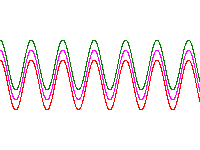
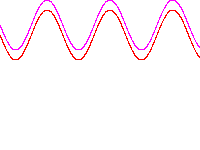
test: update test (#1)
* test: update test

* doc: update readme

Changed region(s): [[0.0, 0.0, 1.0, 0.7467]]

diff --git a/example/wave.js b/example/wave.js
@@ -1,6 +1,7 @@
 'use strict';
 
 const fs = require('fs');
+const path = require('path');
 const PNGlib = require('..');
 
 let png = new PNGlib(200, 150);
@@ -8,12 +9,12 @@ let png = new PNGlib(200, 150);
 for (let i = 0, num = 200 / 10; i <= num; i += .01) {
 
   let x = i * 10;
-  let y = Math.sin(i) * Math.sin(i) * 50 + 50;
+  // Math.sin(i) range [-1, 1] ====> 0 <= y <= 50
+  let y = Math.sin(i) * 25 + 25;
 
   // use a color triad of Microsofts million dollar color
-  png.setPixel(x, (y - 10), 'green');
   png.setPixel(x, (y), '#FF00FF');
   png.setPixel(x, (y + 10), 'rgb(255,0,0)');
 }
 
-fs.writeFileSync('./wave.png', png.getBuffer());
+fs.writeFileSync(path.resolve(__dirname, './wave.png'), png.getBuffer());

diff --git a/example/out_range.js b/example/out_range.js
@@ -1,6 +1,7 @@
 'use strict';
 
 const fs = require('fs');
+const path = require('path');
 const PNGlib = require('..');
 
 let png = new PNGlib(200, 150);
@@ -8,6 +9,7 @@ let png = new PNGlib(200, 150);
 for (let i = 0, num = 200 / 10; i <= num; i += .01) {
 
   let x = i * 10;
+  // Math.sin(i) range [-1, 1] ====> 0 <= y <= 100
   let y = Math.sin(i) * 50 + 50;
 
   png.setPixel(x, (y - 20), 'blue');
@@ -15,4 +17,4 @@ for (let i = 0, num = 200 / 10; i <= num; i += .01) {
   png.setPixel(x, (y + 80), 'rgba(0,255,0)');
 }
 
-fs.writeFileSync('./out_range.png', png.getBuffer());
+fs.writeFileSync(path.resolve(__dirname, './out_range.png'), png.getBuffer());

diff --git a/test/test.js b/test/test.js
@@ -51,10 +51,10 @@ describe('PNGlib', () => {
       for (let i = 0, num = 200 / 10; i <= num; i += .01) {
 
         let x = i * 10;
-        let y = Math.sin(i) * Math.sin(i) * 50 + 50;
+        // Math.sin(i) range [-1, 1] ====> 0 <= y <= 50
+        let y = Math.sin(i) * 25 + 25;
 
         // use a color triad of Microsofts million dollar color
-        png.setPixel(x, (y - 10), 'green');
         png.setPixel(x, (y), '#FF00FF');
         png.setPixel(x, (y + 10), 'rgb(255,0,0)');
       }

diff --git a/example/line.js b/example/line.js
@@ -1,6 +1,7 @@
 'use strict';
 
 const fs = require('fs');
+const path = require('path');
 const PNGlib = require('..');
 
 // width 150, height 50
@@ -13,4 +14,4 @@ for (let i = 0; i < 75; i++) {
   png.buffer[lineIndex + i] = png.color('blue'); // paint (red, green, blue, alpha)
 }
 
-fs.writeFileSync('line.png', png.getBuffer());
+fs.writeFileSync(path.resolve(__dirname, './line.png'), png.getBuffer());

diff --git a/example/block.js b/example/block.js
@@ -1,6 +1,7 @@
 'use strict';
 
 const fs = require('fs');
+const path = require('path');
 const PNGlib = require('..');
 
 let png = new PNGlib(200, 200);
@@ -13,4 +14,4 @@ for (let i = 30; i < 120; i++) {
   }
 }
 
-fs.writeFileSync('./block.png', png.getBuffer());
+fs.writeFileSync(path.resolve(__dirname, './block.png'), png.getBuffer());

diff --git a/README.md b/README.md
@@ -69,10 +69,10 @@ http.createServer(function (req, res) {
   for (let i = 0, num = 200 / 10; i <= num; i += .01) {
   
     let x = i * 10;
-    let y = Math.sin(i) * Math.sin(i) * 50 + 50;
+    // Math.sin(i) range [-1, 1] ====> 0 <= y <= 50
+    let y = Math.sin(i) * 25 + 25;
   
     // use a color triad of Microsofts million dollar color
-    png.setPixel(x, (y - 10), 'green');
     png.setPixel(x, (y)     , '#FF00FF');
     png.setPixel(x, (y + 10), 'rgb(255,0,0)');
   }
